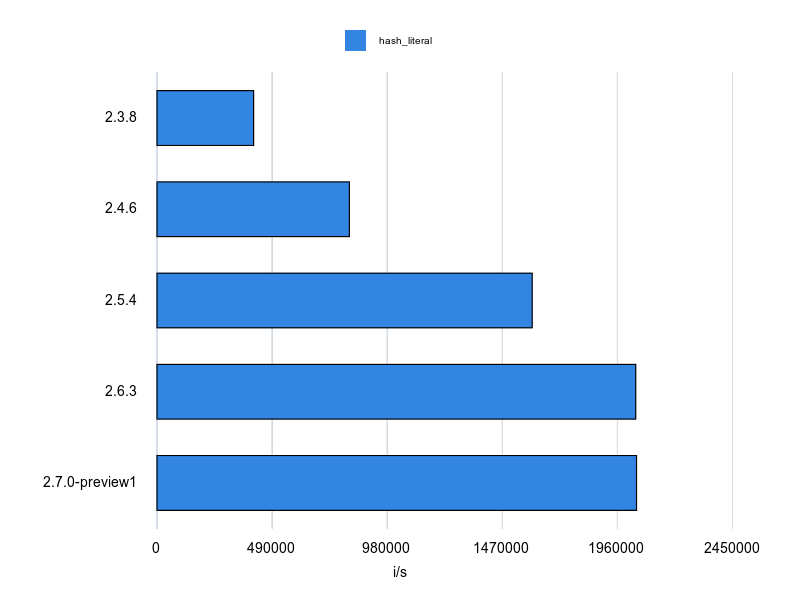
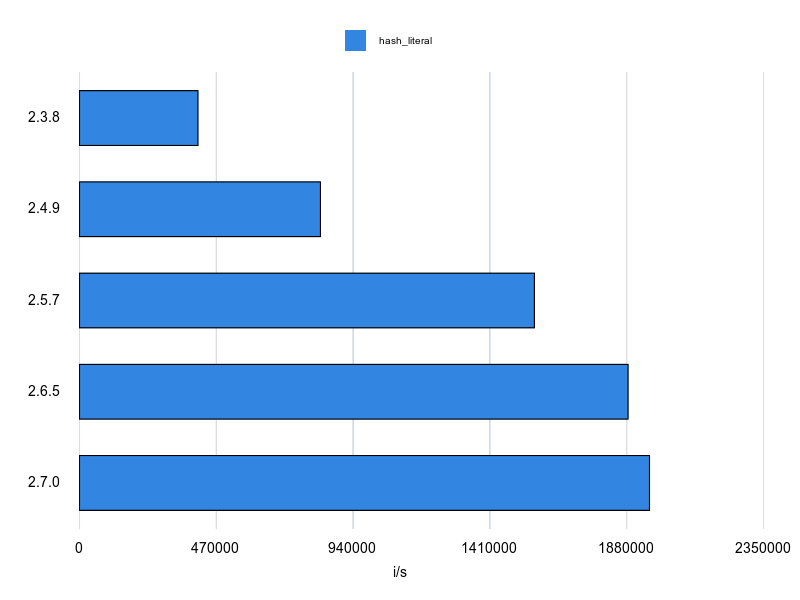
update to ruby 2.7

diff --git a/benchmarks/appendix/array_literal.rb b/benchmarks/appendix/array_literal.rb
@@ -3,7 +3,7 @@
 require 'benchmark_driver'
 
 output = :gruff
-versions = ['2.3.8', '2.4.6', '2.5.4', '2.6.3', '2.7.0-preview1']
+versions = ['2.3.8', '2.4.9', '2.5.7', '2.6.5', '2.7.0']
 
 Benchmark.driver(output: output) do |x|
   x.rbenv *versions

diff --git a/benchmarks/appendix/hash_literal.rb b/benchmarks/appendix/hash_literal.rb
@@ -3,7 +3,7 @@
 require 'benchmark_driver'
 
 output = :gruff
-versions = ['2.3.8', '2.4.6', '2.5.4', '2.6.3', '2.7.0-preview1']
+versions = ['2.3.8', '2.4.9', '2.5.7', '2.6.5', '2.7.0']
 
 Benchmark.driver(output: output) do |x|
   x.rbenv *versions

diff --git a/benchmarks/appendix/splat.rb b/benchmarks/appendix/splat.rb
@@ -3,7 +3,7 @@
 require 'benchmark_driver'
 
 output = :gruff
-versions = ['2.3.8', '2.4.6', '2.5.4', '2.6.3', '2.7.0-preview1']
+versions = ['2.3.8', '2.4.9', '2.5.7', '2.6.5', '2.7.0']
 
 Benchmark.driver(output: output) do |x|
   x.rbenv *versions

diff --git a/benchmarks/appendix/string_literal.rb b/benchmarks/appendix/string_literal.rb
@@ -3,7 +3,7 @@
 require 'benchmark_driver'
 
 output = :gruff
-versions = ['2.3.8', '2.4.6', '2.5.4', '2.6.3', '2.7.0-preview1']
+versions = ['2.3.8', '2.4.9', '2.5.7', '2.6.5', '2.7.0']
 
 Benchmark.driver(output: output) do |x|
   x.rbenv *versions
